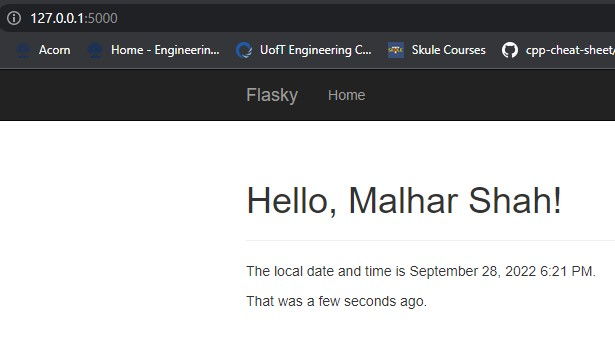
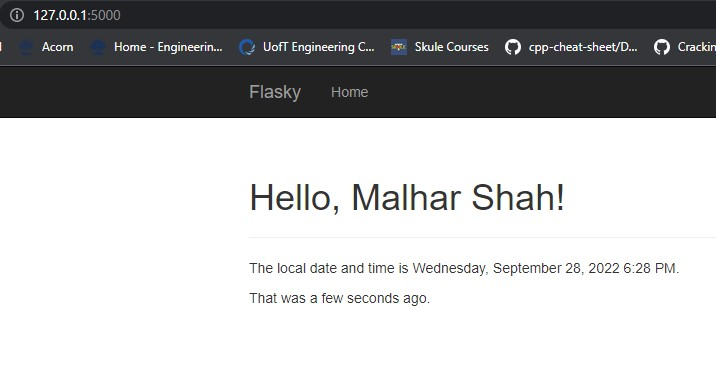
Fixed typo

diff --git a/templates/index.html b/templates/index.html
@@ -7,6 +7,6 @@
     <h1>Hello, Malhar Shah!</h1>
 </div>
 
-<p>The local date and time is {{ moment(current_time).format('LLL') }}.</p>
+<p>The local date and time is {{ moment(current_time).format('LLLL') }}.</p>
 <p>That was {{ moment(current_time).fromNow(refresh=True) }}.</p>
 {% endblock %}
